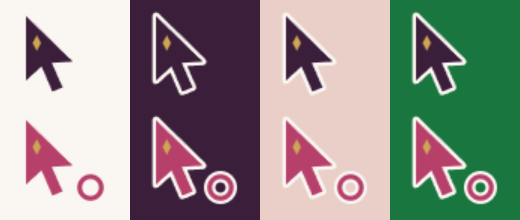
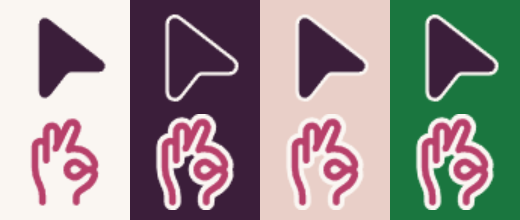
fix(cards,contrast,pointer): bundle cards level and tinted, brand once, contrast checker and token fixes, OK-hand and arrow pointers

diff --git a/assets/moments.css b/assets/moments.css
@@ -670,3 +670,15 @@ html:root {
 .menu-list__list-item:has([aria-expanded='true']) > .menu-list__submenu {
   transition: clip-path var(--submenu-animation-speed) var(--ease-out-cubic);
 }
+
+/* Muted text (the product count, filter labels, small captions) was foreground at 60% opacity, 4.0:1 on pearl.
+   One token, 78%: 6:1 on pearl, still clearly quieter than the main text. */
+html:root {
+  --opacity-subdued-text: 0.78;
+}
+
+/* The scheme token behind filter labels and the product count was 60% (4.0:1). Same 78%. It is set per colour scheme, so it is set on the scheme classes too. */
+html:root:root,
+html:root:root [class*="color-scheme-"] {
+  --color-foreground-muted: rgb(var(--color-foreground-rgb) / 0.78);
+}

diff --git a/docs/decisions-log.md b/docs/decisions-log.md
@@ -35,3 +35,13 @@ Each entry: decision, alternatives, why, how to revert.
 - Diagnosis: the arrow pointer was never built or pushed. Only the follower token existed (snippets/moment-cursor.liquid); nothing in the theme set a cursor image, so the system arrow always showed. The theme's own `cursor:` rules are class-level pointer/grab/not-allowed values.
 - Fix: PNG cursors (32 and 64px) built from committed SVGs by scripts/build-cursors.mjs, tied to the tip hotspot (3,2). One snippet (moment-pointer) sets `--m-pointer-default` and `--m-pointer-link` with image-set, a -webkit-image-set fallback and native keywords, scoped to `(pointer: fine)`, off under forced-colors, theme setting "Custom pointer" (default on). Applied with `html:root:root :where(...)` so it beats theme class rules without !important. Inputs, textareas and disabled controls keep native cursors.
 - Follower token moved to +62px/+56px so it never sits on the tip. Test page: /pages/about-us?view=cursor-test. If the old arrow still shows, hard-refresh (Ctrl+Shift+R).
+
+## 2026-10-26: bundle page product cards
+- Root cause search for the "plum panel": on the live theme the card text area is transparent on the pearl section (`--color-background` rgb 250 246 242, `--color-foreground` plum, `color-scheme-1`); name, brand, price and compare-at all computed to plum or taupe ink on pearl. I could not reproduce a plum panel in a clean headless Chromium in light, dark (`prefers-color-scheme`), reduced-contrast, forced-colors, hover, or after-add states, at 1440 and 375. No `prefers-color-scheme` rule exists anywhere in the theme. Most likely the screenshot came from a browser holding an older cached stylesheet or from the theme editor preview; hard refresh (Ctrl+Shift+R) first. Nothing was overridden with one-off colours.
+- Real defects found and fixed: (1) buttons not level across a row (the gift-bag cards were 22px shorter, so their buttons sat higher; same on phones): grid cell is now `1fr auto`, so the card takes the free height and the button sits at the bottom; (2) brand shown twice when the product title starts with the vendor ("AFNAN GIFT BAG" + "AFNAN"): `product-card-meta` skips the brand when the title already starts with it, on every card placement; (3) the photo frame was pearl on pearl, so photos with off-white backdrops showed as pale boxes: the bundle grid frame is now a soft nude tint with a 12px radius (photos are multiplied onto it); (4) the disabled Checkout used opacity 0.45 (2.2:1): now taupe ink on light taupe.
+- Stray corner marks: not found in the live DOM (no pseudo-elements on the gallery); most likely the pale baked-in photo backdrops from (3).
+- New `scripts/check-contrast.mjs` (axe color-contrast + own computed check; gradient stops worst case; photographs reported not guessed; when only the body background is found the real rendered pixel is sampled, because section backgrounds can be pointer-events:none siblings). Report: docs/design/contrast-report.md.
+
+## 2026-10-26: pointer artwork changed to the owner's chosen icons
+- Page cursor: Fluent UI System Icons "cursor-24-filled" (MIT) in plum with a white outline. Clickable cursor: Hugeicons "ok-finger" (MIT) in berry on a white outline. Sources in assets/cursor-*.svg, built to 32px and 64px PNG by scripts/build-cursors.mjs. Hotspots: arrow tip (8,3), hand raised fingertip (18,3). Replaces the first diamond-arrow drawing. Both are from npm packages (@iconify-json/fluent, @iconify-json/hugeicons) installed in a scratch folder only; nothing from them is a project dependency.
+- Muted text: the product count and filter labels used the scheme token `--color-foreground-muted` at 60% opacity (4.0:1 on pearl); raised to 78% at token level (plus `--opacity-subdued-text`).

diff --git a/docs/live-pushes.md b/docs/live-pushes.md
@@ -9,3 +9,7 @@ Every push to the live theme (#161294745791), newest last. Command: `shopify the
 | 2026-10-26 | assets/moments.css | (colour tokens batch) | moment-palette.mjs AA check (pearl on field 5.3:1+), check-traces, check-tiles (120 states) | smoke PASSED. Six moment colours rebuilt from one OKLCH recipe; hero/tile/ticker follow the tokens. |
 | 2026-10-26 | assets/cursor-*.png/svg, snippets/moment-pointer.liquid, sections/moments-cursor-test.liquid, templates/page.cursor-test.json, config/settings_schema.json | (pointer dark batch) | build-cursors, check-pointer (test page) | pointer only on ?view=cursor-test; smoke later |
 | 2026-10-26 | layout/theme.liquid, snippets/moment-cursor.liquid | (pointer on) | check-pointer --site: body/link/button/cta/card custom, inputs native on 5 pages, follower 30px right and 24px below the tip, CLS 0.001 | smoke PASSED |
+| 2026-10-26 | sections/moments-bundle.liquid, snippets/product-card-meta.liquid | (bundle cards) | check-traces, probe-bundle-layout (buttons level in every row at 1440 and 375) | smoke PASSED (one timing flake on the first run right after the push, two clean reruns) |
+| 2026-10-26 | blocks/filters.liquid, sections/product-trust-badges.liquid | (contrast: trust badge subtitle, filter text) | check-contrast | smoke PASSED |
+| 2026-10-26 | assets/moments.css | (muted text tokens 0.78) | check-contrast on /collections/all and /search: ok | smoke PASSED (3 pushes of this file: opacity token, scheme token, scheme token with higher specificity) |
+| 2026-10-26 | assets/cursor-*.png/svg, snippets/moment-pointer.liquid | (pointer icons) | check-pointer (test page and --site): arrow for the page (hotspot 8,3), OK hand for links and buttons (18,3) | smoke PASSED |

diff --git a/docs/skills-log.md b/docs/skills-log.md
@@ -86,3 +86,10 @@ the same bundle could not load its validator package (see the first entry). **sh
 | 2026-10-25 | Header "More" overflow panel (blocks/_header-menu.liquid) | shopify-liquid-themes, diagnose (cause: wiped --overflow-count, closed submenu reserving height) |
 | 2026-10-25 | Homepage hero, value strip, tiles v1, story, signup band, compare-at price contrast | shopify-liquid-themes, design-system, frontend-design, ui-ux-pro-max, impeccable |
 | 2026-10-25 | Product image audit (read-only): scripts and docs/audit/image-audit.csv | shopify (read-only public feed; no GraphQL authored, so no schema validation applied) |
+
+## 2026-10-26
+- impeccable: critique of the announcement bar and the Gift block (flat strip; contained card, 16px radius, per the skill's card-radius cap); used its slop checklist for the pointer and bundle cards.
+- shopify-liquid / shopify-dev: Liquid doc headers, theme-setting schema, `asset_url` for the cursor PNGs, `{% doc %}` blocks on new snippets.
+- design-system: OKLCH moment recipe (scripts/moment-palette.mjs), token-level contrast fixes (--opacity-subdued-text, --color-foreground-muted).
+- ui-ux-pro-max: contrast checks (4.5:1 normal, 3:1 large), 44px targets, pointer scoped to fine pointers and off under forced-colors.
+- Not yet run: frontend-design, emil-design-eng, banner-design, brand audits for the remaining parts of the brief.

diff --git a/docs/design/contrast-report.md b/docs/design/contrast-report.md
@@ -1,0 +1,6 @@
+# Contrast report
+
+Live storefront, 2026-10-26. axe color-contrast rule plus our own computed check (4.5:1 normal text, 3:1 large text). Text over photographs is listed as "image" (not computed).
+
+## /search?q=oud 1440px LTR: ok
+Own check: 0 below threshold. axe: 0. Text over photographs (not computed): 0.
